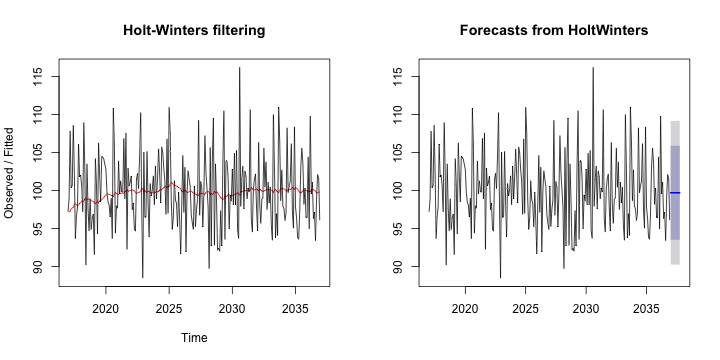
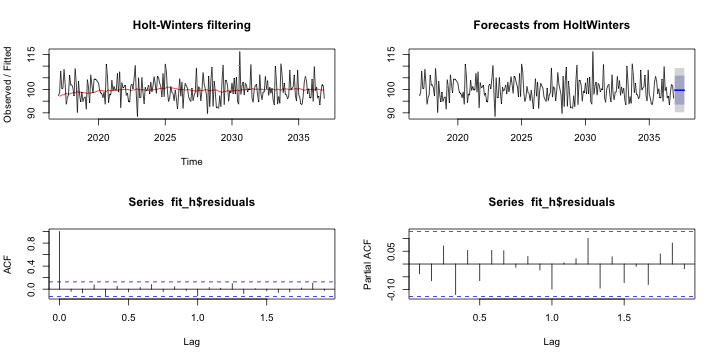
update

Changed region(s): [[0.0, 0.0611, 0.9778, 0.8861], [0.2444, 0.9167, 0.3056, 0.9778], [0.7639, 0.9472, 0.7944, 0.9778]]

diff --git a/_posts/2017-03-29-exponential-smoothing.md b/_posts/2017-03-29-exponential-smoothing.md
@@ -59,19 +59,14 @@ This post is my note about learning Exponential Smoothing. All the contents in t
   ![plot of chunk unnamed-chunk-1](/figure/source/2017-03-29-exponential-smoothing/unnamed-chunk-1-1.png)
   
   {% highlight r %}
+  par(mfrow=c(2,2))
   plot(fit)
   plot.forecast(fit_h)
-  {% endhighlight %}
-  
-  ![plot of chunk unnamed-chunk-1](/figure/source/2017-03-29-exponential-smoothing/unnamed-chunk-1-2.png)
-  
-  {% highlight r %}
-  par(mfrow=c(1,2))
   acf(fit_h$residuals, na.action = na.omit)
   pacf(fit_h$residuals, na.action = na.omit)
   {% endhighlight %}
   
-  ![plot of chunk unnamed-chunk-1](/figure/source/2017-03-29-exponential-smoothing/unnamed-chunk-1-3.png)
+  ![plot of chunk unnamed-chunk-1](/figure/source/2017-03-29-exponential-smoothing/unnamed-chunk-1-2.png)
 
   * **Algorithm:** <br />
     The original algorithm which was defined by Winters (1960),
@@ -148,19 +143,14 @@ This post is my note about learning Exponential Smoothing. All the contents in t
   ![plot of chunk unnamed-chunk-2](/figure/source/2017-03-29-exponential-smoothing/unnamed-chunk-2-1.png)
   
   {% highlight r %}
+  par(mfrow=c(2,2))
   plot(fit)
   plot.forecast(fit_h)
-  {% endhighlight %}
-  
-  ![plot of chunk unnamed-chunk-2](/figure/source/2017-03-29-exponential-smoothing/unnamed-chunk-2-2.png)
-  
-  {% highlight r %}
-  par(mfrow=c(1,2))
   acf(fit_h$residuals, na.action = na.omit)
   pacf(fit_h$residuals, na.action = na.omit)
   {% endhighlight %}
   
-  ![plot of chunk unnamed-chunk-2](/figure/source/2017-03-29-exponential-smoothing/unnamed-chunk-2-3.png)
+  ![plot of chunk unnamed-chunk-2](/figure/source/2017-03-29-exponential-smoothing/unnamed-chunk-2-2.png)
 
   * **Algorithm:**
       
@@ -204,19 +194,14 @@ This post is my note about learning Exponential Smoothing. All the contents in t
   ![plot of chunk unnamed-chunk-3](/figure/source/2017-03-29-exponential-smoothing/unnamed-chunk-3-1.png)
   
   {% highlight r %}
+  par(mfrow=c(2,2))
   plot(fit)
   plot.forecast(fit_h)
-  {% endhighlight %}
-  
-  ![plot of chunk unnamed-chunk-3](/figure/source/2017-03-29-exponential-smoothing/unnamed-chunk-3-2.png)
-  
-  {% highlight r %}
-  par(mfrow=c(1,2))
   acf(fit_h$residuals, na.action = na.omit)
   pacf(fit_h$residuals, na.action = na.omit)
   {% endhighlight %}
   
-  ![plot of chunk unnamed-chunk-3](/figure/source/2017-03-29-exponential-smoothing/unnamed-chunk-3-3.png)
+  ![plot of chunk unnamed-chunk-3](/figure/source/2017-03-29-exponential-smoothing/unnamed-chunk-3-2.png)
     
     
   * **Algorithm:**

diff --git a/_posts/2017-02-12-Naive-Bayes.md b/_posts/2017-02-12-Naive-Bayes.md
@@ -88,7 +88,7 @@ Suppose we have a contingency table like this:
 
 $$
 \begin{align}
-P(A|X_1=\text{"Yes"}, X_2=\text{"Unsure"}) &\propto P(X_1=\text{"Yes"}, X_2=\text{"Unknown"}|A)P(A) \\[5pt]
+P(A|X_1=\text{"Yes"}, X_2=\text{"Unsure"}) &\propto P(X_1=\text{"Yes"}, X_2=\text{"Unsure"}|A)P(A) \\[5pt]
   &= P(X_1=\text{"Yes"}|A)P(X_2=\text{"Unsure"}|A)P(A) \\[5pt]
   &= \frac{10}{50} \cdot \frac{30}{50} \cdot \frac{50}{150} \\[5pt]
   &= \frac{1}{25} \\[10pt]
